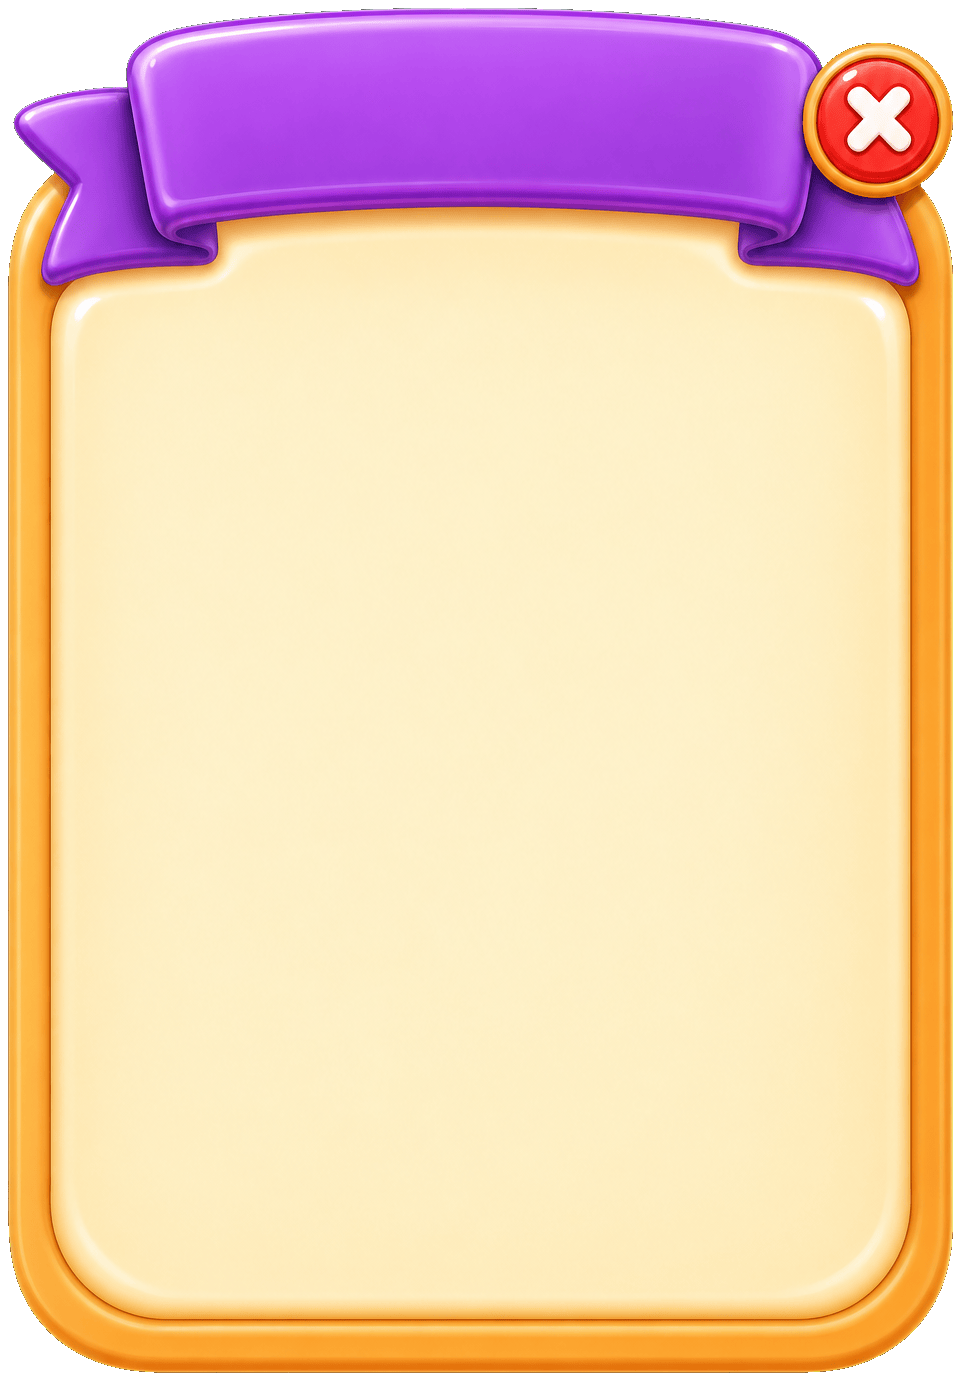
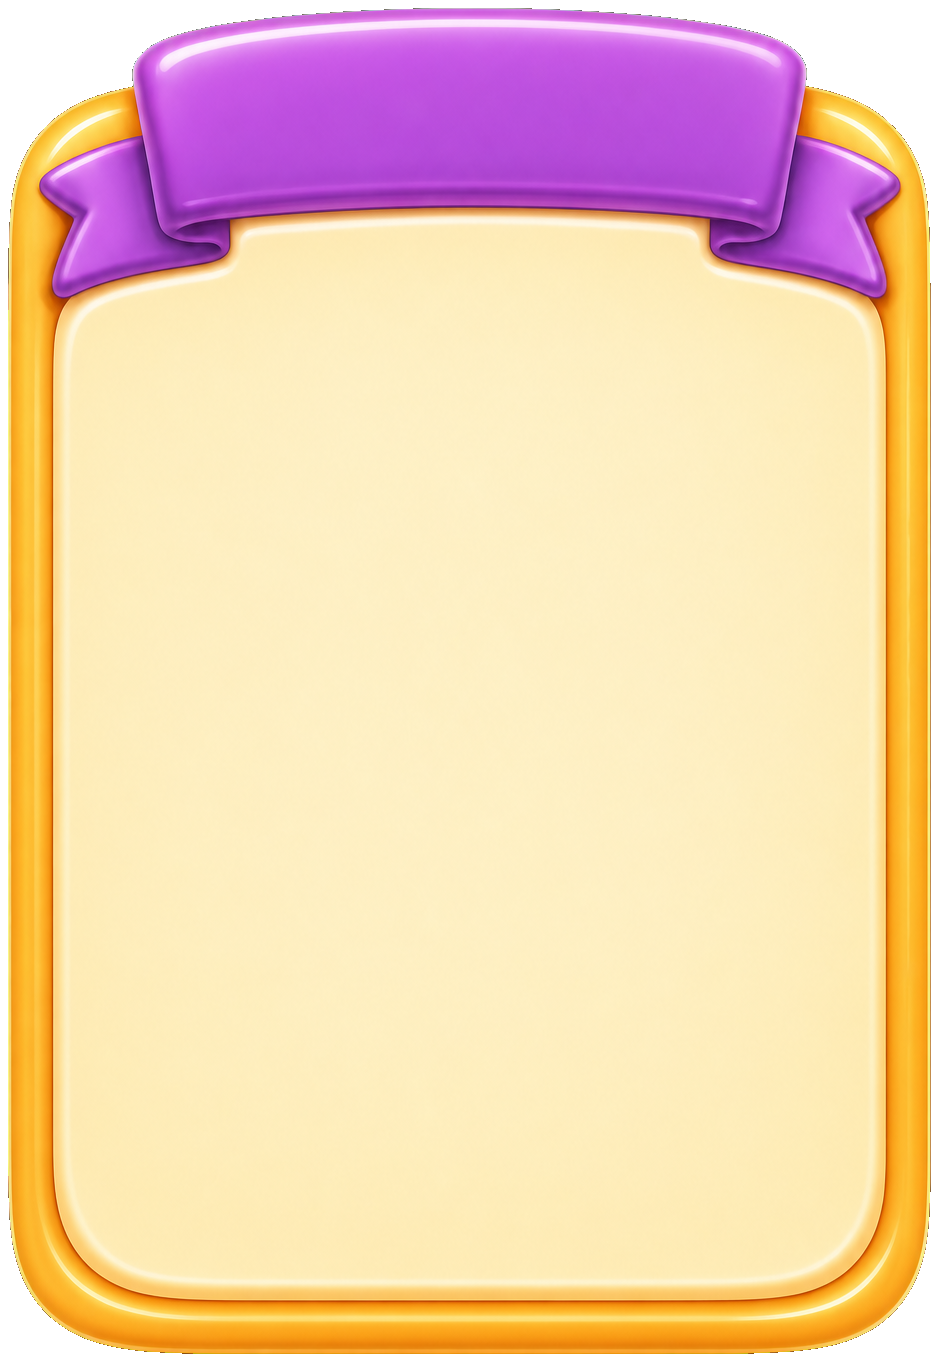
Redeploy: rounded font + skull urgent timer + flame combo pill + rebuilt game-over (no X)

Changed region(s): [[0.0, 0.0, 1.0, 1.0]]

diff --git a/engine/goods-sort.html b/engine/goods-sort.html
@@ -4,6 +4,10 @@
 <meta charset="utf-8">
 <meta name="viewport" content="width=device-width, initial-scale=1, maximum-scale=1, user-scalable=no, viewport-fit=cover">
 <title>물건 정리 / Goods Sort</title>
+<!-- rounded, chunky game font (동글동글) applied to ALL in-game text -->
+<link rel="preconnect" href="https://fonts.googleapis.com">
+<link rel="preconnect" href="https://fonts.gstatic.com" crossorigin>
+<link href="https://fonts.googleapis.com/css2?family=Baloo+2:wght@500;600;700;800&family=Jua&display=swap" rel="stylesheet">
 <style>
   /* ============================================================
      LAYOUT — mobile PORTRAIT, viewport-driven, no fixed design box.
@@ -99,7 +103,7 @@
   }
   *{ box-sizing:border-box; -webkit-tap-highlight-color:transparent; }
   html,body{ margin:0; padding:0; height:100%; overflow:hidden;
-    background:var(--wallpaper); font-family:-apple-system,BlinkMacSystemFont,"Segoe UI",Roboto,system-ui,sans-serif;
+    background:var(--wallpaper); font-family:"Baloo 2","Jua",-apple-system,BlinkMacSystemFont,"Segoe UI",Roboto,system-ui,sans-serif;
     touch-action:none; user-select:none; -webkit-user-select:none; }
   /* full-viewport CREAM WALL so any ratio is filled (L12) and it blends with the
      page/body bg into one seamless wall. FLAT color — no tiling texture. This is the
@@ -161,10 +165,15 @@
   #timer .txt{ font-size:27px; color:#fff; letter-spacing:1px;
     -webkit-text-stroke:2.5px #9a7c49; paint-order:stroke fill;
     text-shadow:0 2px 1px rgba(110,70,20,.4); }
-  #timer.urgent{ background:url("../assets/ui/pill_timer_urgent.png") center/100% 100% no-repeat;
-    border:none; box-shadow:none; animation:tpulse .8s ease-in-out infinite; }
-  #timer.urgent .txt{ color:#fff; -webkit-text-stroke:2.5px #a32014;
-    text-shadow:0 2px 1px rgba(120,10,5,.5); }
+  /* URGENT (<60s): RED plate (same shape) + SKULL on the LEFT, digits pushed RIGHT (reference). */
+  #timer.urgent{ background:linear-gradient(#ff6f56,#e23a2b);
+    border:3px solid #ffd1c5; box-shadow:0 3px 4px rgba(120,20,10,.3), inset 0 2px 2px rgba(255,255,255,.32);
+    animation:tpulse .8s ease-in-out infinite; }
+  #timer.urgent::before{ content:""; position:absolute; left:9px; top:50%; transform:translateY(-50%);
+    width:31px; height:31px; background:url("../assets/ui/skull_timer.png") center/contain no-repeat;
+    filter:drop-shadow(0 1px 1px rgba(120,10,5,.4)); }
+  #timer.urgent .txt{ color:#fff; padding-left:28px;          /* shift digits RIGHT, clear of the skull */
+    -webkit-text-stroke:2.5px #a32014; text-shadow:0 2px 1px rgba(120,10,5,.5); }
   @keyframes tpulse{ 0%,100%{ transform:scale(1);} 50%{ transform:scale(1.07);} }
 
   /* pause chip (kept) */
@@ -177,8 +186,17 @@
   /* COMBO gauge — the TRACK is ALWAYS shown (user: 프로그래스 UI 위치는 항상 노출).
      The green fill + "COMBO xN" label appear only during an active combo. Overlaps the
      frame's bottom edge, centered under the timer. */
-  /* COMBO gauge — INTEGRAL with the frame (일체형): a downward LOBE of the SAME wood as
-     #hudFrame (so it fuses, no separate border) with a DEBOSSED dark channel carved into it. */
+  /* COMBO COUNT — engraved flame pill on the HUD right (🔥 xN), same 음각 look as #lv. */
+  #comboCount{ display:flex; align-items:center; gap:3px; height:38px; padding:0 11px;
+    border-radius:12px; background:linear-gradient(#6f3d2c,#5b3324);
+    box-shadow: inset 0 3px 4px rgba(0,0,0,.55), inset 0 -2px 3px rgba(0,0,0,.28), 0 1px 0 rgba(255,224,188,.30);
+    font-weight:800; color:#ffeede; font-size:16px; pointer-events:none; }
+  #comboCount .fl{ font-size:15px; filter:drop-shadow(0 1px 1px rgba(0,0,0,.45)); }
+  #comboCount .cc-x{ text-shadow:0 1px 2px rgba(0,0,0,.6); font-variant-numeric:tabular-nums; }
+  #comboCount.bump{ animation:cbump .3s ease; }
+
+  /* COMBO retention bar — INTEGRAL with the frame (일체형): a downward LOBE of the SAME wood
+     as #hudFrame (fuses, no separate border) with a DEBOSSED dark channel carved into it. */
   .combo-gauge{ position:relative; width:148px; height:25px; margin-top:-14px; z-index:6; pointer-events:none;
     padding:4px 7px 6px; border-radius:0 0 16px 16px;     /* straight top fuses to the frame; rounded bottom = the lobe */
     background:linear-gradient(#96592f,#88512f);          /* SAME wood as the frame */
@@ -703,27 +721,40 @@
   .btn-row .ibtn.continue{ width:46%; height:50px; }
 
   /* ---- CLEAN game-over panel (panel_gameover_clean.png) + coin HUD + X + RETRY ---- */
-  .card.gameover.clean{ background-image:url("../assets/ui/panel_gameover_clean.png"); aspect-ratio:961/1381; }
-  .card.gameover.clean .card-body{ top:30%; bottom:7%; gap:6px; justify-content:flex-start; }
-  /* coin balance HUD at the very top of the popup */
-  .go-coins{ position:absolute; top:-10%; left:50%; transform:translateX(-50%); z-index:4;
+  .card.gameover.clean{ background-image:url("../assets/ui/panel_gameover_clean.png"); aspect-ratio:939/1362; }
+  .card.gameover.clean .card-body{ top:25%; bottom:8%; left:11%; right:11%; gap:0;
+    display:flex; flex-direction:column; justify-content:space-between; }
+  /* TITLE on the ribbon — rounded font, gold fill + dark outline (TIME UP! / NO SPACE!) */
+  .card.gameover.clean .go-title{ position:absolute; top:1%; left:50%; transform:translateX(-50%); z-index:4;
+    font-weight:800; font-size:27px; letter-spacing:1px; white-space:nowrap; color:#ffe27a;
+    -webkit-text-stroke:1.5px #6a2f6a; paint-order:stroke fill;
+    text-shadow:0 2px 0 rgba(70,25,70,.5), 0 3px 4px rgba(0,0,0,.22); }
+  /* coin balance HUD at the very top */
+  .go-coins{ position:absolute; top:-9%; left:50%; transform:translateX(-50%); z-index:5;
     display:flex; align-items:center; gap:5px; padding:4px 14px 4px 7px; border-radius:18px;
     background:linear-gradient(#fff6e4,#f3ddb2); border:3px solid #fff; box-shadow:0 4px 0 rgba(0,0,0,.18); }
   .go-coins .ci{ width:25px; height:25px; background:url("../assets/ui/icon_coin.png") center/contain no-repeat; }
-  .go-coins .cv{ font-weight:900; font-size:17px; color:#c2741a; text-shadow:0 1px 0 #fff;
-    font-variant-numeric:tabular-nums; }
-  /* X close (top-right) */
-  .go-x{ position:absolute; top:5%; right:-1%; width:38px; height:38px; z-index:5; cursor:pointer; pointer-events:auto;
-    border-radius:50%; background:radial-gradient(circle at 38% 32%, #ff8a7a, #e8453c 72%); border:3px solid #fff;
-    box-shadow:0 3px 0 rgba(0,0,0,.2); display:flex; align-items:center; justify-content:center; }
-  .go-x::before{ content:"\2715"; color:#fff; font-weight:900; font-size:17px; }
-  .go-x:active{ transform:translateY(2px); }
-  /* RETRY (image btn_retry) with a label */
-  .ibtn.retry{ background-image:url("../assets/ui/btn_retry.png"); }
-  .ibtn.retry.wide{ width:46%; height:50px; }
-  .ibtn.retry .retrylbl{ position:absolute; font-weight:900; font-size:16px; color:#fff; letter-spacing:.5px;
-    -webkit-text-stroke:2px rgba(120,40,10,.85); paint-order:stroke fill; text-shadow:0 2px 0 rgba(0,0,0,.2); }
-  .ibtn.shake{ animation:shakeX .3s ease; }
+  .go-coins .cv{ font-weight:700; font-size:18px; color:#c2741a; text-shadow:0 1px 0 #fff; font-variant-numeric:tabular-nums; }
+  /* SECTIONS (구역 분리): top = continue effect, divider, bottom = buttons */
+  .go-sec{ display:flex; flex-direction:column; align-items:center; }
+  .go-sec.top{ gap:6px; padding-top:4px; }
+  .go-continue-txt{ font-weight:800; font-size:22px; color:#ffb02e;
+    -webkit-text-stroke:1.2px #fff; paint-order:stroke fill; text-shadow:0 2px 0 rgba(150,80,10,.22); }
+  .go-divider{ width:86%; height:3px; margin:8px auto; border-radius:3px;
+    background:linear-gradient(90deg, rgba(165,120,70,0), rgba(165,120,70,.45) 50%, rgba(165,120,70,0)); }
+  .go-sec.bot{ flex-direction:row; gap:10px; width:100%; }
+  /* CSS pill buttons — green coin / orange RETRY, rounded-font labels (consistent fonts) */
+  .go-btn{ flex:1; height:50px; border-radius:25px; display:flex; align-items:center; justify-content:center; gap:6px;
+    cursor:pointer; pointer-events:auto; font-weight:800; font-size:19px; color:#fff;
+    text-shadow:0 2px 1px rgba(0,0,0,.28); transition:transform .08s; }
+  .go-btn:active{ transform:translateY(2px); }
+  .go-btn.coin{ background:linear-gradient(#82dd5a,#4cae31); border:3px solid #fff;
+    box-shadow:0 4px 0 #387f23, 0 6px 7px rgba(0,0,0,.2); }
+  .go-btn.retry{ background:linear-gradient(#ffaa3c,#ef7d1c); border:3px solid #fff;
+    box-shadow:0 4px 0 #c25e12, 0 6px 7px rgba(0,0,0,.2); }
+  .go-btn .bi-coin{ width:24px; height:24px; background:url("../assets/ui/icon_coin.png") center/contain no-repeat; }
+  .go-btn .bi-retry{ font-size:21px; font-weight:800; }
+  .go-btn.shake{ animation:shakeX .3s ease; }
   @keyframes shakeX{ 0%,100%{transform:translateX(0);} 25%{transform:translateX(-5px);} 75%{transform:translateX(5px);} }
 
   /* ---- CLEAR: full-screen DIM show (no card) — big praise + MAX COMBO + NEXT ---- */
@@ -833,13 +864,15 @@
         <div class="img-pill" id="timer"><span class="txt">02:00</span></div>
       </div>
       <div class="hud-right">
+        <!-- COMBO COUNT — engraved flame pill (🔥 xN), like the reference's score slot but flame -->
+        <div id="comboCount"><span class="fl">🔥</span><span class="cc-x">x<span id="comboNum">0</span></span></div>
         <div class="hud-chip" id="pause">⏸</div>
       </div>
     </div>
-    <!-- COMBO gauge (depletes over the combo-reset window) — overlaps the frame's bottom edge -->
+    <!-- COMBO retention PROGRESS bar (depletes over 20s) — overlaps the frame's bottom edge -->
     <div class="combo-gauge" id="combo">
       <div class="cg-track"><div class="cg-fill" id="comboFill"></div></div>
-      <div class="cg-label">COMBO&nbsp;<span class="cg-x">x<span id="comboNum">0</span></span></div>
+      <div class="cg-label">COMBO</div>
     </div>
   </div>
 
@@ -1463,6 +1496,7 @@
   var comboEl = document.getElementById('combo');       // COMBO gauge (below the timer)
   var comboNumEl = document.getElementById('comboNum'); // the "xN" number in the gauge label
   var comboFillEl = document.getElementById('comboFill'); // the depleting green fill
+  var comboCountEl = document.getElementById('comboCount'); // engraved flame pill (🔥 xN)
   var fxEl = document.getElementById('fx');
   var ghostEl = document.getElementById('drag-ghost');
 
@@ -2210,7 +2244,7 @@
     if (comboNumEl) comboNumEl.textContent = S.combo;
     comboEl.classList.toggle('show', S.combo > 0);
     if (S.combo === 0 && comboFillEl){ comboFillEl.style.transition='none'; comboFillEl.style.width='0%'; }
-    if (bump){ comboEl.classList.remove('bump'); void comboEl.offsetWidth; comboEl.classList.add('bump'); }
+    if (bump){ [comboEl, comboCountEl].forEach(function(e){ if(e){ e.classList.remove('bump'); void e.offsetWidth; e.classList.add('bump'); } }); }
   }
 
   // star fly (fx_star.png sprite) ----------------------------
@@ -2896,7 +2930,7 @@
   // centered offer (+30s / reshuffle x1) + [CONTINUE(coin) | RETRY]. NO ads/AD labels.
   function showGameOverCard(mode){
     var isTime = (mode === 'timeup');
-    var bannerCls = isTime ? 'timeup' : 'nospace';
+    var title = isTime ? 'TIME UP!' : 'NO SPACE!';
     var offer = isTime
       ? '<div class="go-offer">' +
           '<div class="oicon plus30"></div>' +
@@ -2908,24 +2942,27 @@
           '<div class="olbl">Refresh all items</div>' +
         '</div>';
     var cost = 800;
+    // Sectioned (구역 분리): TOP = continue effect (CONTINUE? + icon/value), BOTTOM = buttons.
+    // All text inherits the rounded font (동글). NO X close. Title sits on the ribbon.
     popupBox.innerHTML =
       '<div class="card gameover clean" id="goCard">' +
         '<div class="go-coins"><span class="ci"></span><span class="cv" id="goCoinVal">' + S.coins + '</span></div>' +
-        '<div class="go-banner ' + bannerCls + '"></div>' +
-        '<div class="go-x" id="goClose"></div>' +
+        '<div class="go-title ' + (isTime ? 'timeup' : 'nospace') + '">' + title + '</div>' +
         '<div class="card-body">' +
-          '<div class="go-continue"></div>' +
-          offer +
-          '<div class="btn-row">' +
-            '<div class="ibtn continue" id="goContinue"><span class="cost">' + cost + '</span></div>' +
-            '<div class="ibtn retry wide" id="goRetry"></div>' +
+          '<div class="go-sec top">' +
+            '<div class="go-continue-txt">CONTINUE?</div>' +
+            offer +
+          '</div>' +
+          '<div class="go-divider"></div>' +
+          '<div class="go-sec bot">' +
+            '<div class="go-btn coin" id="goContinue"><span class="bi-coin"></span><span class="bl">' + cost + '</span></div>' +
+            '<div class="go-btn retry" id="goRetry"><span class="bi-retry">↻</span><span class="bl">RETRY</span></div>' +
           '</div>' +
         '</div>' +
       '</div>';
     overlay.classList.add('on');
     document.getElementById('goContinue').addEventListener('click', function(){ haptic('btn'); tryContinue(mode, cost); });
     document.getElementById('goRetry').addEventListener('click', function(){ haptic('btn'); retryLevel(); });
-    document.getElementById('goClose').addEventListener('click', function(){ haptic('btn'); retryLevel(); });
   }
   // CONTINUE costs coins (no ads). If short on coins, nudge the button instead.
   function tryContinue(mode, cost){
@@ -3889,6 +3926,7 @@
     maxCombo: function(){ return S.maxCombo; },
     urgent: function(){ return S.urgent; },
     comboPillText: function(){ var t = comboEl.querySelector('.cg-label'); return t ? t.textContent.replace(/\s+/g,' ').trim() : ''; },
+    comboCountText: function(){ var e = document.querySelector('#comboCount .cc-x'); return e ? e.textContent.trim() : ''; },
     timeLeft: function(){ return S.timeLeft; },
     setTime: function(t){ S.timeLeft = t; updateTimer(); },
     forceLose: function(){ S.timeLeft = 0; lose(); },
@@ -3911,12 +3949,11 @@
     gameOverCard: function(){
       var c = document.querySelector('#popupBox .card.gameover');
       if (!c) return { shown:false, on:overlay.classList.contains('on') };
-      var banner = document.querySelector('#popupBox .go-banner');
-      var bcls = banner ? banner.className : '';
-      var bimg = banner ? getComputedStyle(banner).backgroundImage : '';
+      var title = document.querySelector('#popupBox .go-title');
+      var tcls = title ? title.className : '';
       return { shown:true, on:overlay.classList.contains('on'),
-        mode: /timeup/.test(bcls) ? 'timeup' : (/nospace/.test(bcls) ? 'nospace' : '?'),
-        bannerImg: bimg,
+        mode: /timeup/.test(tcls) ? 'timeup' : (/nospace/.test(tcls) ? 'nospace' : '?'),
+        titleText: title ? title.textContent.trim() : '',
         hasContinue: !!document.querySelector('#popupBox #goContinue'),
         hasCoinHud: !!document.querySelector('#popupBox .go-coins'),
         hasClose: !!document.querySelector('#popupBox #goClose'),